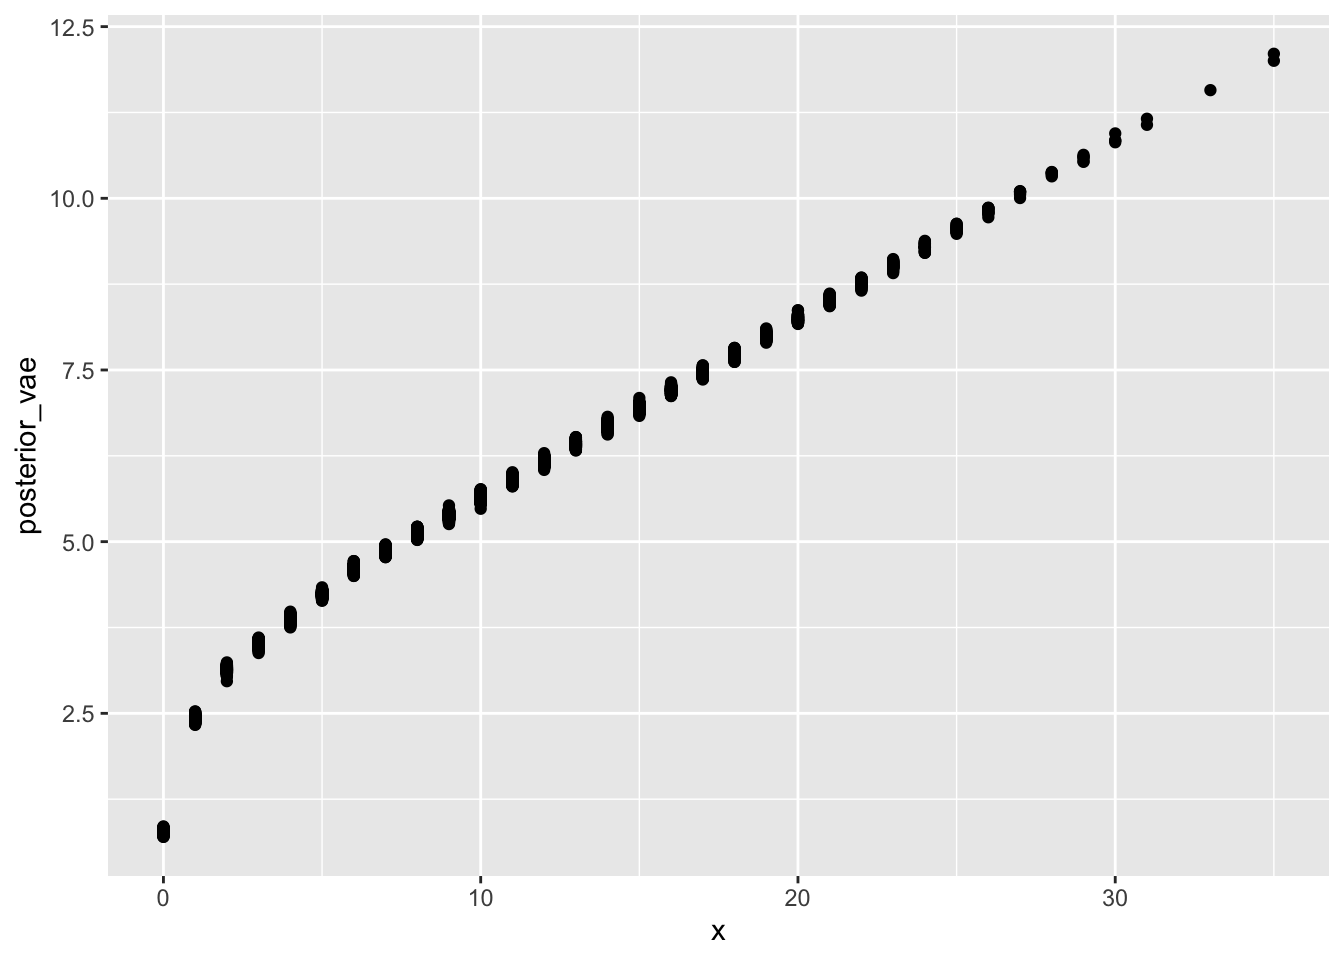
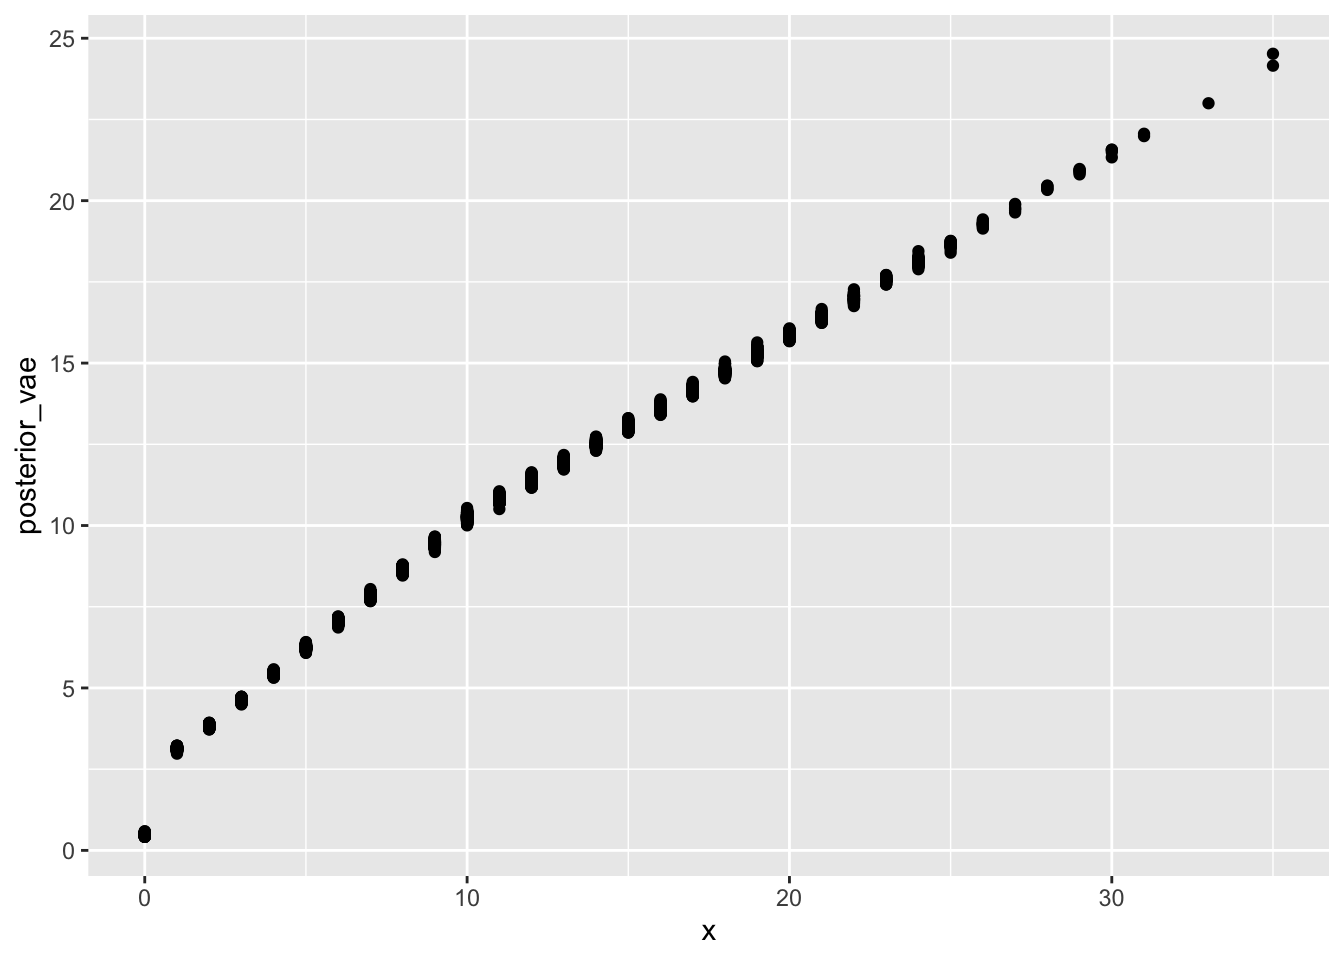
Build site.

diff --git a/docs/Compare_ebvaepm_ebpm.html b/docs/Compare_ebvaepm_ebpm.html
@@ -536,10 +536,10 @@ This reproducible <a href="http://rmarkdown.rstudio.com">R Markdown</a> analysis
 <div class="panel panel-default">
 <div class="panel-heading">
 <p class="panel-title">
-<a data-toggle="collapse" data-parent="#workflowr-checks" href="#strongRepositoryversionstrongahrefhttpsgithubcomzihao12ebpmfdemotreedfcc1fc255ad22bbed45f2640a6be9d275bea085targetblankdfcc1fca"> <span class="glyphicon glyphicon-ok text-success" aria-hidden="true"></span> <strong>Repository version:</strong> <a href="https://github.com/zihao12/ebpmf_demo/tree/dfcc1fc255ad22bbed45f2640a6be9d275bea085" target="_blank">dfcc1fc</a> </a>
+<a data-toggle="collapse" data-parent="#workflowr-checks" href="#strongRepositoryversionstrongahrefhttpsgithubcomzihao12ebpmfdemotreeb50f5ad48e9d560f7262f4c3534daa26ed4911ectargetblankb50f5ada"> <span class="glyphicon glyphicon-ok text-success" aria-hidden="true"></span> <strong>Repository version:</strong> <a href="https://github.com/zihao12/ebpmf_demo/tree/b50f5ad48e9d560f7262f4c3534daa26ed4911ec" target="_blank">b50f5ad</a> </a>
 </p>
 </div>
[2 lines of base64/hex data omitted]
 <div class="panel-body">
 <p>
 Great! You are using Git for version control. Tracking code development and connecting the code version to the results is critical for reproducibility. The version displayed above was the version of the Git repository at the time these results were generated. <br><br> Note that you need to be careful to ensure that all relevant files for the analysis have been committed to Git prior to generating the results (you can use <code>wflow_publish</code> or <code>wflow_git_commit</code>). workflowr only checks the R Markdown file, but you know if there are other scripts or data files that it depends on. Below is the status of the Git repository when the results were generated:
@@ -553,6 +553,8 @@ Untracked files:
     Untracked:  analysis/.ipynb_checkpoints/
     Untracked:  analysis/ebpmf_demo.Rmd
     Untracked:  analysis/ebpmf_rank1_demo2.Rmd
+    Untracked:  analysis/index.knit.md
+    Untracked:  analysis/index.utf8.md
     Untracked:  analysis/softmax_experiments.ipynb
     Untracked:  data/poisson-normal.pkl
     Untracked:  data/trash/
@@ -607,6 +609,40 @@ Message
 </tr>
 </thead>
 <tbody>
+<tr>
+<td>
+Rmd
+</td>
+<td>
+<a href="https://github.com/zihao12/ebpmf_demo/blob/b50f5ad48e9d560f7262f4c3534daa26ed4911ec/analysis/Compare_ebvaepm_ebpm.Rmd" target="_blank">b50f5ad</a>
+</td>
+<td>
+zihao12
+</td>
+<td>
+2019-10-23
+</td>
+<td>
+updae Compare_ebvaepm_ebpm.Rmd again
+</td>
+</tr>
+<tr>
+<td>
+html
+</td>
+<td>
+<a href="https://rawcdn.githack.com/zihao12/ebpmf_demo/7010ff6b850d456ff7572621d767cf428056f545/docs/Compare_ebvaepm_ebpm.html" target="_blank">7010ff6</a>
+</td>
+<td>
+zihao12
+</td>
+<td>
+2019-10-23
+</td>
+<td>
+Build site.
+</td>
+</tr>
 <tr>
 <td>
 html
@@ -767,8 +803,8 @@ compare vae with ebpm
 </div>
 </div>
 </div>
-<p>Here I show and compare the results from <code>ebvae_pm</code> and <code>ebpmf</code>. <code>ebvae_pm</code> was implemented and experimented here: <a href="https://zihao12.github.io/ebpmf_demo/ebvae-poisson-normal.html" class="uri">https://zihao12.github.io/ebpmf_demo/ebvae-poisson-normal.html</a> .</p>
-<p>Now <code>ebvae_pm</code> does much worse even than the <code>mle</code>. It seems to be shrinking too much.</p>
+<p>Here I show and compare the results from <code>ebvae_pm</code> and <code>ebpm_exponential_mixture</code>. <code>ebvae_pm</code> was implemented and experimented here: <a href="https://zihao12.github.io/ebpmf_demo/ebvae-poisson-normal.html" class="uri">https://zihao12.github.io/ebpmf_demo/ebvae-poisson-normal.html</a> .</p>
+<p>After training for 10000 iterations, <code>ebvae_pm</code> beats <code>ebpm</code>.</p>
 <pre class="r"><code>devtools::load_all(&quot;../ebpm&quot;)</code></pre>
 <pre><code>Loading ebpm</code></pre>
 <pre class="r"><code>library(ggplot2)
@@ -868,6 +904,17 @@ Date
 <tbody>
 <tr>
 <td>
+<a href="https://github.com/zihao12/ebpmf_demo/blob/7010ff6b850d456ff7572621d767cf428056f545/docs/figure/Compare_ebvaepm_ebpm.Rmd/unnamed-chunk-2-2.png" target="_blank">7010ff6</a>
+</td>
+<td>
+zihao12
+</td>
+<td>
+2019-10-23
+</td>
+</tr>
+<tr>
+<td>
 <a href="https://github.com/zihao12/ebpmf_demo/blob/604d2f7b69ac31765ddd66e810fdc0a2009aa423/docs/figure/Compare_ebvaepm_ebpm.Rmd/unnamed-chunk-2-2.png" target="_blank">604d2f7</a>
 </td>
 <td>
@@ -893,13 +940,13 @@ zihao12
 </div>
 </div>
 </div>
-<div id="compare-with-ebpm" class="section level2">
-<h2>Compare with EBPM</h2>
+<div id="compare-with-ebpm_exponential_mixture" class="section level2">
+<h2>Compare with <code>ebpm_exponential_mixture</code></h2>
 <pre class="r"><code>library(ebpm)
-fit_ebpm = ebpm_exponential_mixture(as.vector(vae_out$x), s = 1, m = 2^0.25)
-vae_out[[&quot;posterior_ebpm&quot;]] = fit_ebpm$posterior$mean
+fit_ebpm_exp = ebpm_exponential_mixture(as.vector(vae_out$x), s = 1, m = 2^0.25)
+vae_out[[&quot;posterior_ebpm_exp&quot;]] = fit_ebpm_exp$posterior$mean
 ggplot(vae_out)+
-  geom_point(aes(x = x, y = posterior_ebpm))</code></pre>
+  geom_point(aes(x = x, y = posterior_ebpm_exp))</code></pre>
 <p><img src="figure/Compare_ebvaepm_ebpm.Rmd/unnamed-chunk-3-1.png" width="672" style="display: block; margin: auto;" /></p>
 <p>
 <button type="button" class="btn btn-default btn-xs btn-workflowr btn-workflowr-fig" data-toggle="collapse" data-target="#fig-unnamed-chunk-3-1">
@@ -950,20 +997,37 @@ zihao12
 </div>
 </div>
 <pre class="r"><code>## biggest weight
-max(fit_ebpm$fitted_g$pi)</code></pre>
+max(fit_ebpm_exp$fitted_g$pi)</code></pre>
 <pre><code>[1] 1</code></pre>
 <pre class="r"><code>## the mean  of the exponential component corresponding to the biggest weight
-fit_ebpm$fitted_g$scale[which.max(fit_ebpm$fitted_g$pi)]</code></pre>
+fit_ebpm_exp$fitted_g$scale[which.max(fit_ebpm_exp$fitted_g$pi)]</code></pre>
 <pre><code>[1] 10.76347</code></pre>
+</div>
+<div id="compare-with-ebpm_exponential_mixture-1" class="section level2">
+<h2>Compare with <code>ebpm_exponential_mixture</code></h2>
+<pre class="r"><code>library(ebpm)
+fit_ebpm_point = ebpm_point_gamma(as.vector(vae_out$x), s = 1)
+vae_out[[&quot;posterior_ebpm_point&quot;]] = fit_ebpm_point$posterior$mean
+ggplot(vae_out)+
+  geom_point(aes(x = x, y = posterior_ebpm_point))</code></pre>
+<p><img src="figure/Compare_ebvaepm_ebpm.Rmd/unnamed-chunk-5-1.png" width="672" style="display: block; margin: auto;" /></p>
+<pre class="r"><code>## fitted_g from point_gamma
+class(fit_ebpm_point$fitted_g) = &quot;data.frame&quot;
+fit_ebpm_point$fitted_g</code></pre>
+<pre><code>         pi0    shape    scale
+1 0.03153703 4.853747 2.156189</code></pre>
 </div>
 <div id="compare-rmse" class="section level2">
 <h2>Compare RMSE</h2>
 <pre class="r"><code>## rmse(fit_vae, lam)
 sqrt(mean((vae_out$posterior_vae - vae_out$lam)^2))</code></pre>
-<pre><code>[1] 5.783777</code></pre>
-<pre class="r"><code>## rmse(fit_ebpm, lam)
-sqrt(mean((fit_ebpm$posterior$mean - vae_out$lam)^2))</code></pre>
+<pre><code>[1] 2.63505</code></pre>
+<pre class="r"><code>## rmse(fit_ebpm_exp, lam)
+sqrt(mean((fit_ebpm_exp$posterior$mean - vae_out$lam)^2))</code></pre>
 <pre><code>[1] 2.962624</code></pre>
+<pre class="r"><code>## rmse(fit_ebpm_point, lam)
+sqrt(mean((fit_ebpm_point$posterior$mean - vae_out$lam)^2))</code></pre>
+<pre><code>[1] 2.645054</code></pre>
 <pre class="r"><code>## rmse(mle, lam)
 sqrt(mean((vae_out$x- vae_out$lam)^2))</code></pre>
 <pre><code>[1] 3.197445</code></pre>
